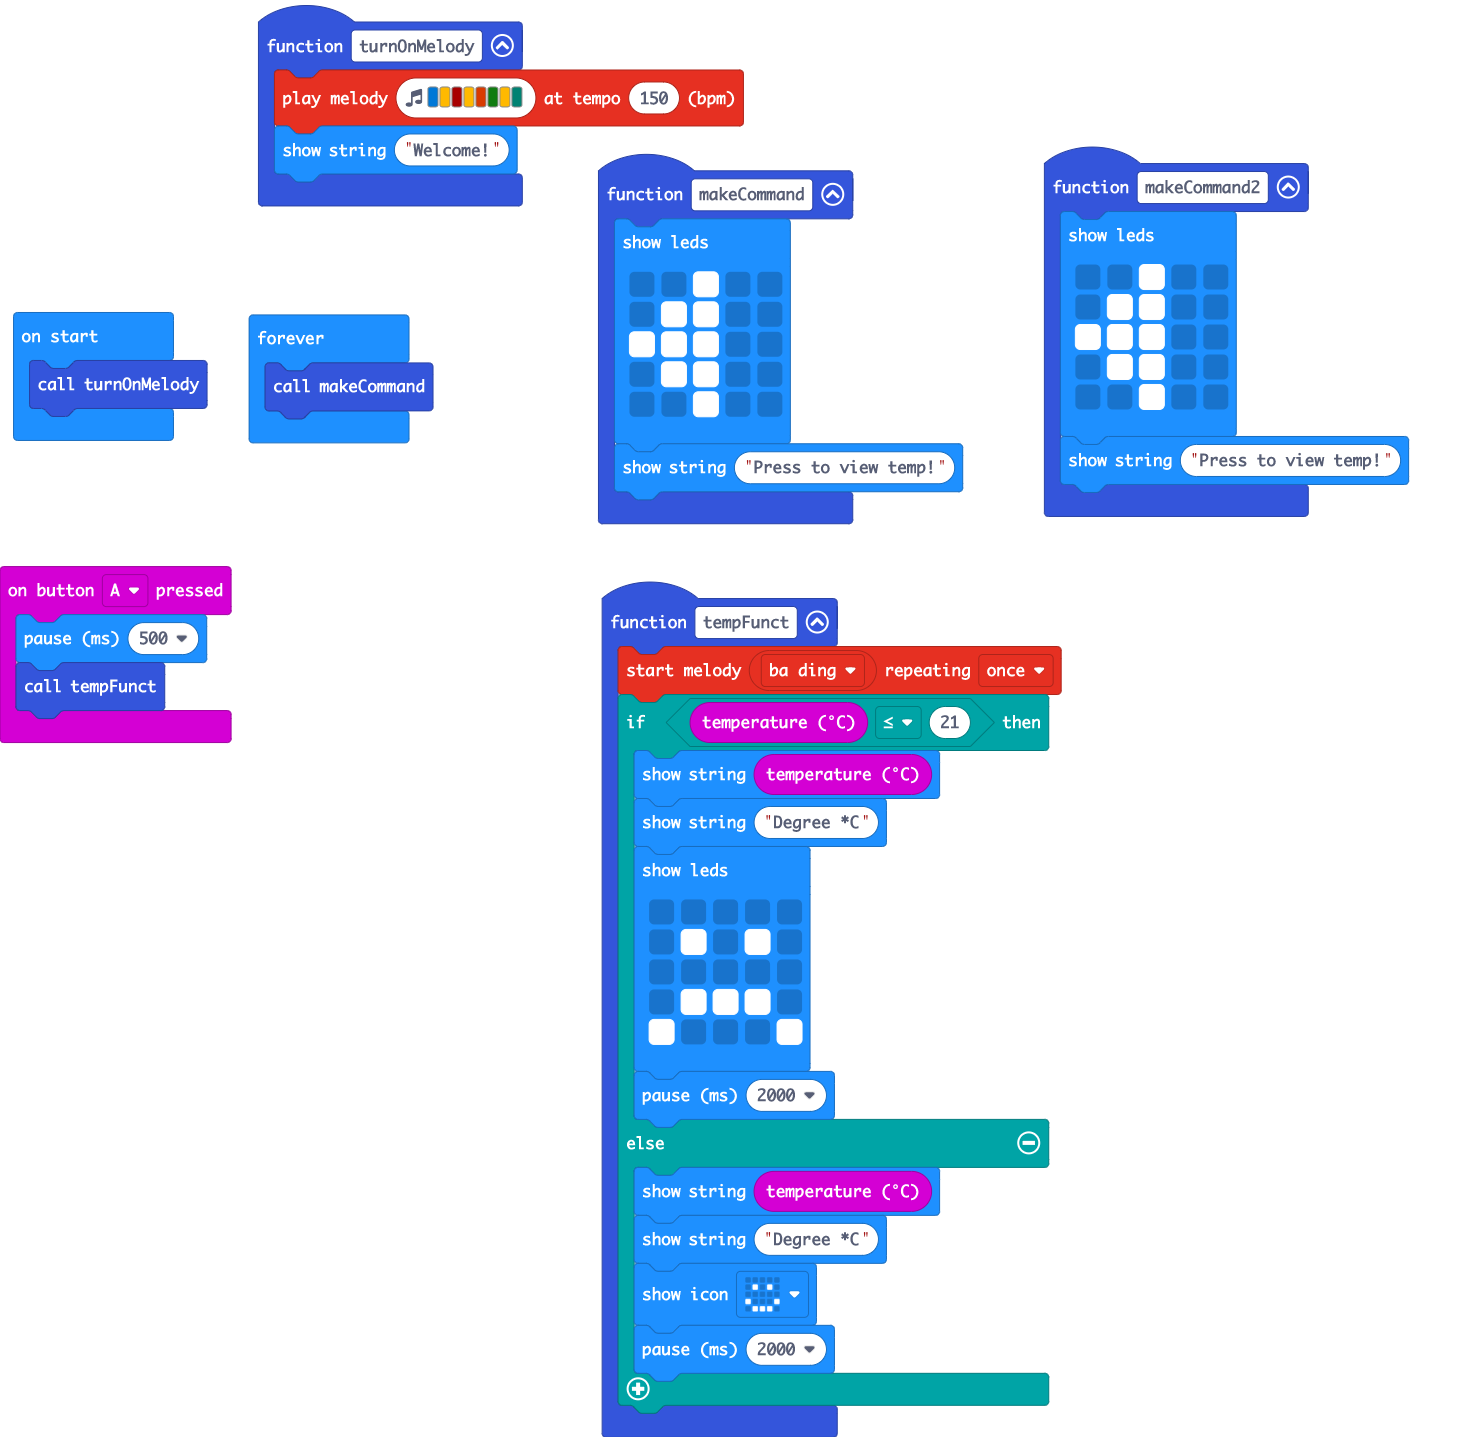
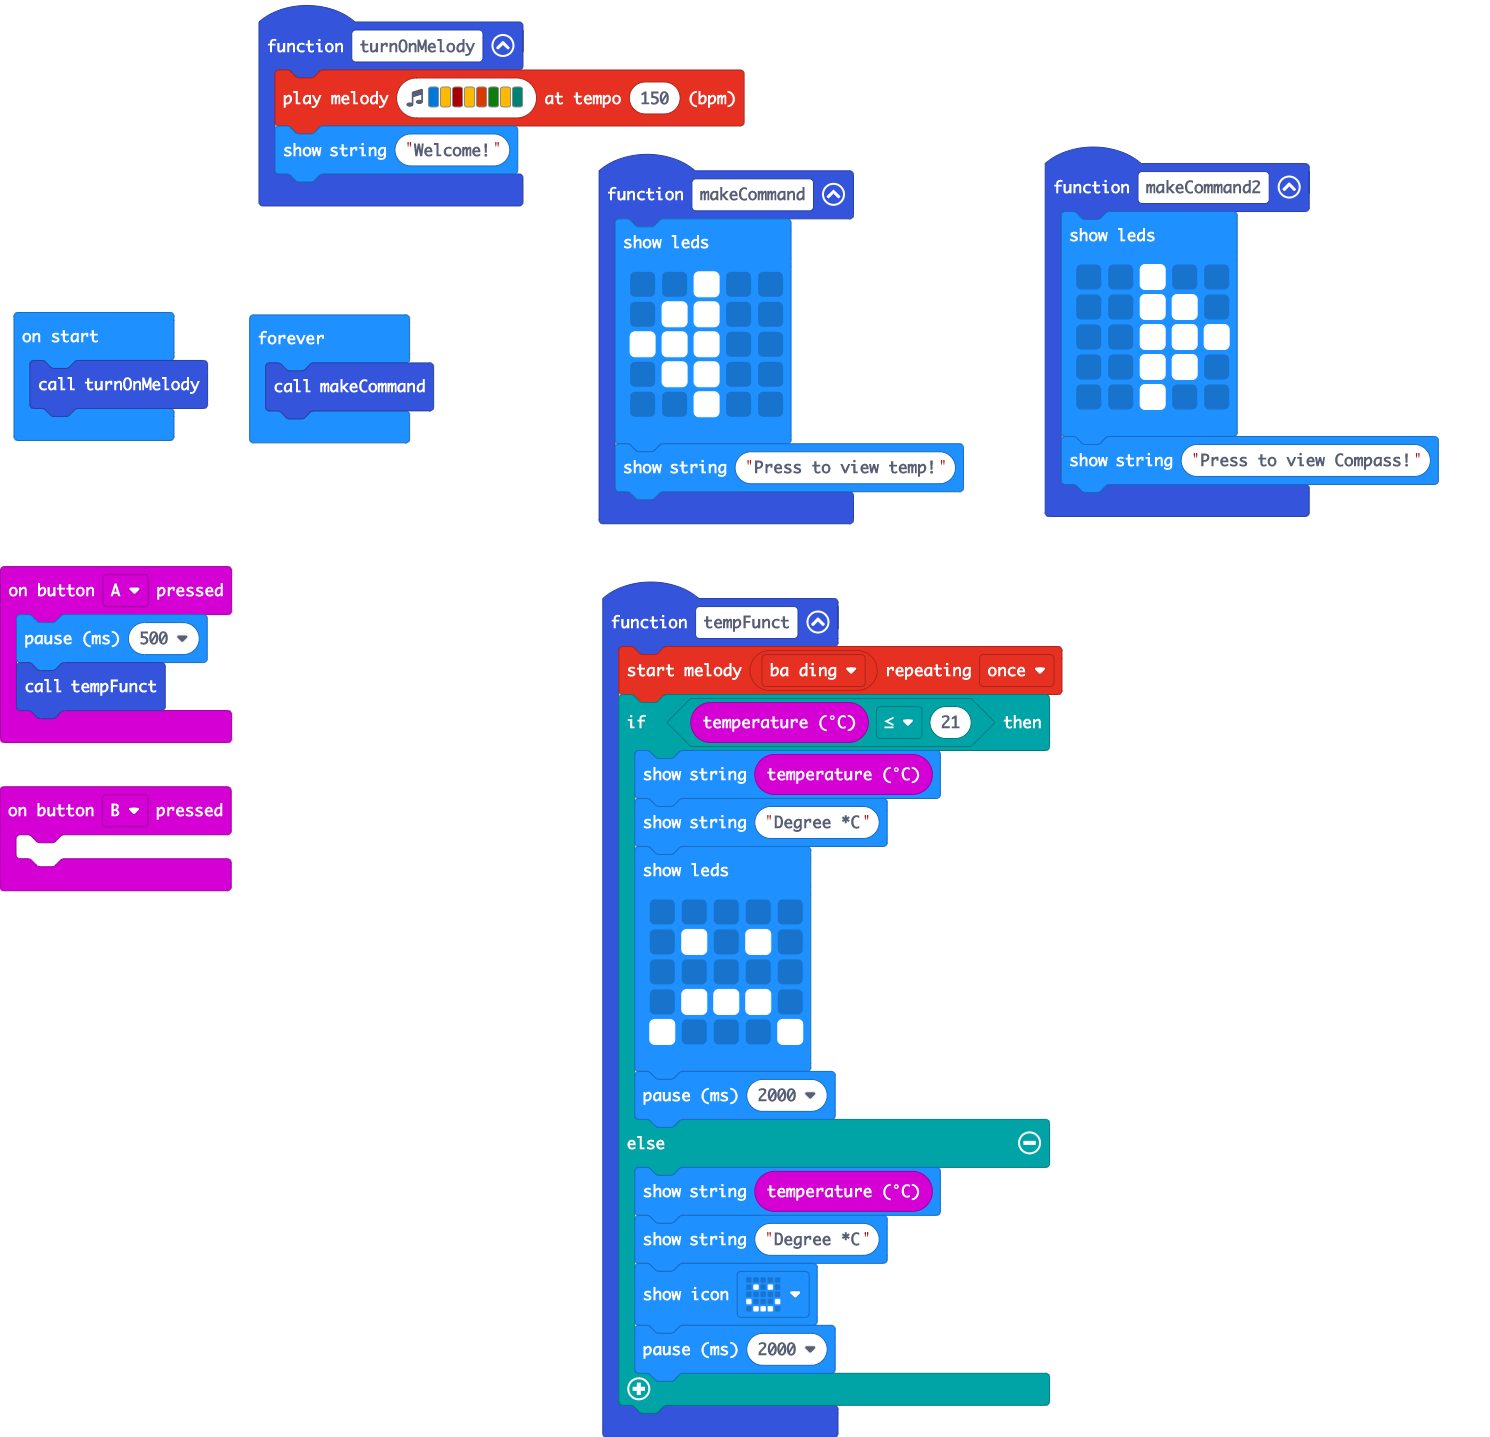
Update main.blocks, main.ts

diff --git a/main.ts b/main.ts
@@ -12,6 +12,9 @@ function makeCommand () {
         `)
     basic.showString("Press to view temp!")
 }
+input.onButtonPressed(Button.B, function () {
+	
+})
 function tempFunct () {
     music.startMelody(music.builtInMelody(Melodies.BaDing), MelodyOptions.Once)
     if (input.temperature() <= 21) {
@@ -39,12 +42,12 @@ function turnOnMelody () {
 function makeCommand2 () {
     basic.showLeds(`
         . . # . .
-        . # # . .
-        # # # . .
-        . # # . .
+        . . # # .
+        . . # # #
+        . . # # .
         . . # . .
         `)
-    basic.showString("Press to view temp!")
+    basic.showString("Press to view Compass!")
 }
 turnOnMelody()
 basic.forever(function () {
